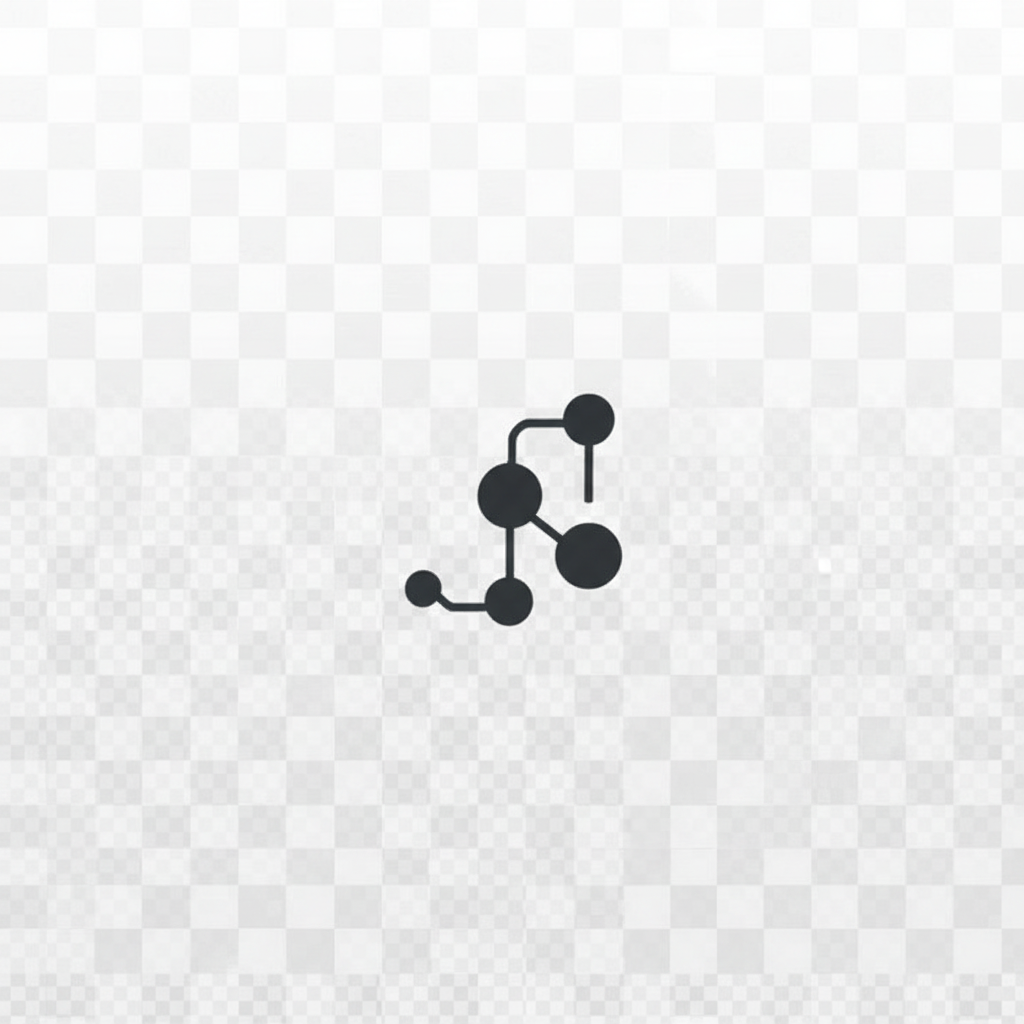
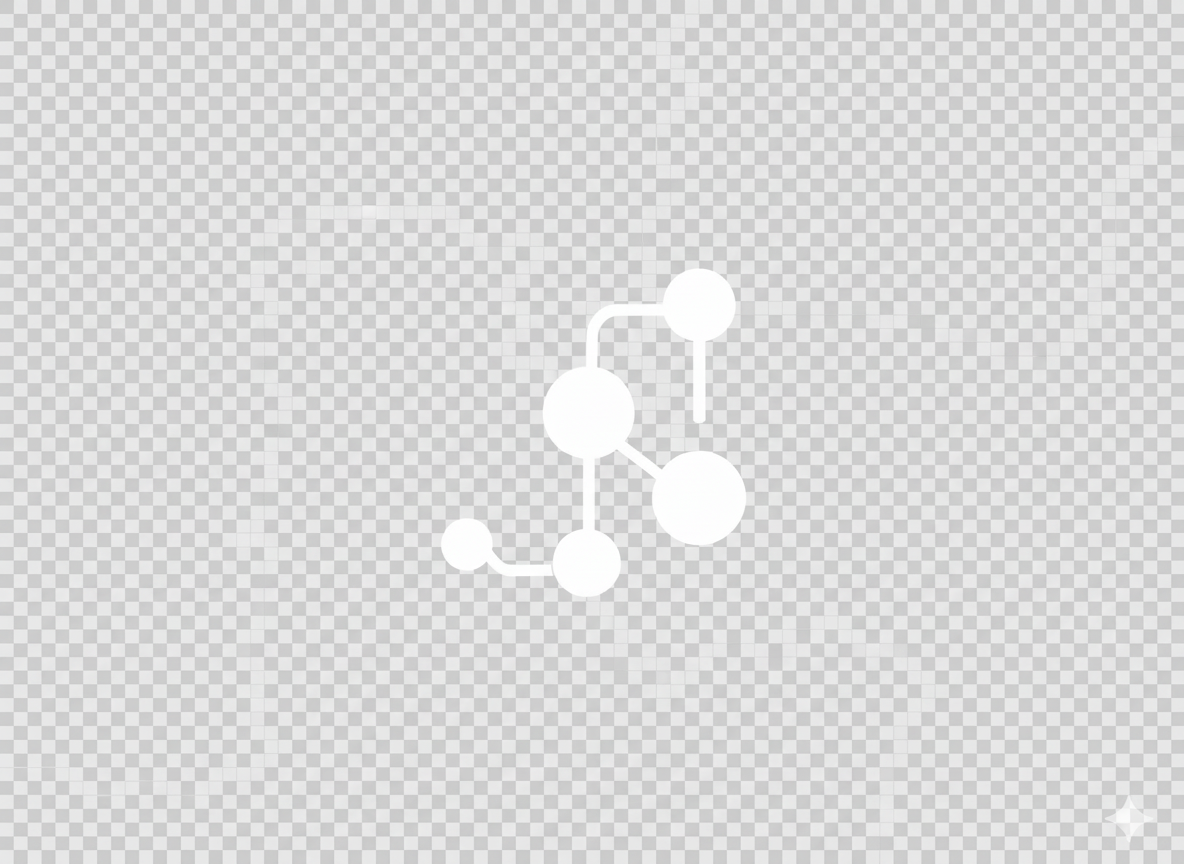
Changes

diff --git a/src/pages/Dashboard.tsx b/src/pages/Dashboard.tsx
@@ -208,7 +208,7 @@ const Dashboard = () => {
                   </Button>
                 )}
                 <Link to="/" className="flex items-center gap-2 min-w-0 cursor-pointer hover:opacity-80 transition-opacity">
-                  <img src={gptiqxIcon} alt="GPTIQX" className="w-6 h-6 sm:w-7 sm:h-7 flex-shrink-0 invert" />
+                  <img src={gptiqxIcon} alt="GPTIQX" className="w-6 h-6 sm:w-7 sm:h-7 flex-shrink-0" />
                   <span className="text-lg sm:text-xl font-bold text-white truncate">GPTIQX</span>
                 </Link>
               </div>
@@ -247,7 +247,7 @@ const Dashboard = () => {
               <Card className="glass border-white/10 hover:border-white/20 transition-all duration-300 animate-fade-in">
                 <CardHeader className="flex flex-row items-center justify-between pb-2">
                   <CardTitle className="text-sm font-medium text-white/60">UserIQ</CardTitle>
-                  <img src={gptiqxIcon} alt="UserIQ" className="w-5 h-5 opacity-40 invert" />
+                  <img src={gptiqxIcon} alt="UserIQ" className="w-5 h-5 opacity-40" />
                 </CardHeader>
                 <CardContent>
                   <div className="text-4xl font-bold text-white mb-1">
@@ -297,7 +297,7 @@ const Dashboard = () => {
                   <Card className="glass border-white/10 hover:border-white/20 transition-all duration-300">
                     <CardHeader>
                     <CardTitle className="text-lg text-white flex items-center gap-2">
-                      <img src={gptiqxIcon} alt="UserIQ" className="w-6 h-6 opacity-60 invert" />
+                      <img src={gptiqxIcon} alt="UserIQ" className="w-6 h-6 opacity-60" />
                       UserIQ Breakdown
                       </CardTitle>
                     </CardHeader>

diff --git a/src/pages/Landing.tsx b/src/pages/Landing.tsx
@@ -38,7 +38,7 @@ const Landing = () => {
       <nav className="fixed top-0 left-0 right-0 z-50 border-b border-white/10 bg-black/50 backdrop-blur-xl">
         <div className="max-w-7xl mx-auto px-4 sm:px-6 h-16 flex items-center justify-between">
           <Link to="/" className="flex items-center gap-2 min-w-0">
-            <img src={gptiqxIcon} alt="GPTIQX" className="w-6 h-6 sm:w-7 sm:h-7 flex-shrink-0 invert" />
+            <img src={gptiqxIcon} alt="GPTIQX" className="w-6 h-6 sm:w-7 sm:h-7 flex-shrink-0" />
             <span className="text-lg sm:text-xl font-bold text-white truncate">GPTIQX</span>
           </Link>
           {isLoggedIn ? (
@@ -100,7 +100,7 @@ const Landing = () => {
           <div className="grid sm:grid-cols-2 md:grid-cols-3 gap-4 sm:gap-6">
             <div className="glass p-6 sm:p-8 rounded-xl hover:bg-white/10 transition-all group">
               <div className="w-10 h-10 sm:w-12 sm:h-12 rounded-lg bg-white/10 flex items-center justify-center mb-4 sm:mb-6 group-hover:bg-white/20 transition-colors">
-                <img src={gptiqxIcon} alt="UserIQ" className="w-6 h-6 sm:w-7 sm:h-7 invert" />
+                <img src={gptiqxIcon} alt="UserIQ" className="w-6 h-6 sm:w-7 sm:h-7" />
               </div>
               <h3 className="text-lg sm:text-xl font-semibold text-white mb-2 sm:mb-3">UserIQ</h3>
               <p className="text-white/60 text-sm leading-relaxed">

diff --git a/src/pages/Profile.tsx b/src/pages/Profile.tsx
@@ -250,7 +250,7 @@ const Profile = () => {
       <nav className="fixed top-0 left-0 right-0 z-50 border-b border-white/10 bg-black/50 backdrop-blur-xl">
         <div className="max-w-4xl mx-auto px-4 sm:px-6 h-16 flex items-center justify-between">
           <Link to="/" className="flex items-center gap-2 cursor-pointer hover:opacity-80 transition-opacity">
-            <img src={gptiqxIcon} alt="GPTIQX" className="w-6 h-6 sm:w-7 sm:h-7 invert" />
+            <img src={gptiqxIcon} alt="GPTIQX" className="w-6 h-6 sm:w-7 sm:h-7" />
             <span className="text-lg sm:text-xl font-bold text-white">GPTIQX</span>
           </Link>
           <div className="flex items-center gap-2 sm:gap-3">

diff --git a/src/pages/Auth.tsx b/src/pages/Auth.tsx
@@ -81,7 +81,7 @@ const Auth = () => {
         <CardHeader className="text-center space-y-3 sm:space-y-4 pb-6 sm:pb-8">
           <div className="flex justify-center">
             <div className="w-14 h-14 sm:w-16 sm:h-16 rounded-xl bg-white/10 flex items-center justify-center">
-              <img src={gptiqxIcon} alt="GPTIQX" className="w-8 h-8 sm:w-10 sm:h-10 invert" />
+              <img src={gptiqxIcon} alt="GPTIQX" className="w-8 h-8 sm:w-10 sm:h-10" />
             </div>
           </div>
           <div>

diff --git a/src/components/dashboard/DashboardSidebar.tsx b/src/components/dashboard/DashboardSidebar.tsx
@@ -116,7 +116,7 @@ const DashboardSidebar = ({
         {/* Header with logo and close button */}
         <div className="flex items-center justify-between p-4 border-b border-white/10">
           <div className="flex items-center gap-2">
-            <img src={gptiqxIcon} alt="GPTIQX" className="w-6 h-6 invert" />
+            <img src={gptiqxIcon} alt="GPTIQX" className="w-6 h-6" />
             <span className="text-sm font-medium text-white/80">GPTIQX</span>
           </div>
           <button
